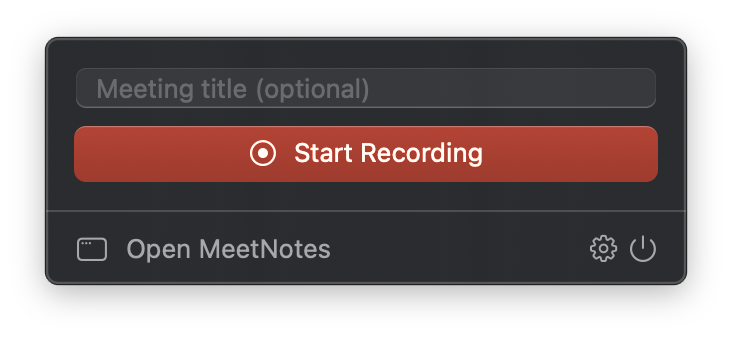
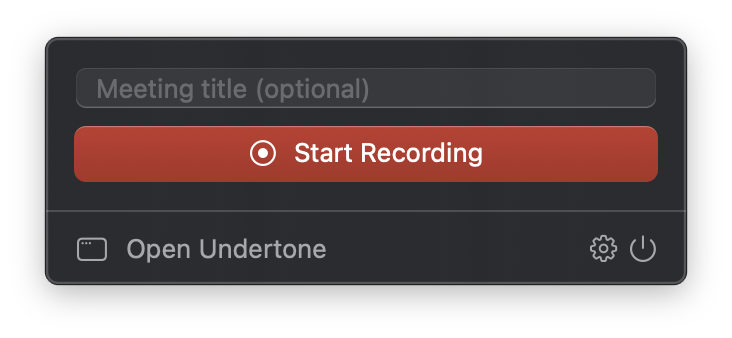
Rename the project to Undertone on the website and in the README
MeetNotes is already the name of several meeting-notes products. The app
itself takes the new name with the next release.

diff --git a/docs/index.html b/docs/index.html
@@ -3,9 +3,9 @@
 <head>
 <meta charset="utf-8">
 <meta name="viewport" content="width=device-width, initial-scale=1">
-<title>MeetNotes: free, private meeting transcription for Mac</title>
+<title>Undertone: free, private meeting transcription for Mac</title>
 <meta name="description" content="Record your calls and get a transcript of who said what, made on your Mac. No bot joins the call, no audio leaves your Mac. Free and open source.">
-<meta property="og:title" content="MeetNotes: free, private meeting transcription for Mac">
+<meta property="og:title" content="Undertone: free, private meeting transcription for Mac">
 <meta property="og:description" content="No bot joins your call, no audio leaves your Mac. Free and open source.">
 <meta property="og:image" content="https://paulshnurenko.github.io/free-meeting-transcription/screenshot-transcript.png">
 <meta property="og:url" content="https://paulshnurenko.github.io/free-meeting-transcription/">
@@ -182,7 +182,7 @@
 
 <nav>
   <div class="wrap">
-    <a class="logo" href="#"><img src="icon.png" alt="">MeetNotes</a>
+    <a class="logo" href="#"><img src="icon.png" alt="">Undertone</a>
     <div class="links">
       <a href="#how">How it works</a>
       <a href="#features">Features</a>
@@ -198,7 +198,7 @@
   <div class="wrap">
     <span class="badge"><span class="dot"></span>Free and open source</span>
     <h1>Meeting notes that <span>never leave your Mac</span></h1>
-    <p class="lead">MeetNotes records your calls and turns them into a transcript of who said what. No bot joins the call, no account, no subscription. Everything runs on your Mac.</p>
+    <p class="lead">Undertone records your calls and turns them into a transcript of who said what. No bot joins the call, no account, no subscription. Everything runs on your Mac.</p>
     <div class="cta">
       <a class="btn btn-primary download" href="https://github.com/paulshnurenko/free-meeting-transcription/releases/latest">
         <svg width="18" height="18" viewBox="0 0 24 24" fill="none" stroke="currentColor" stroke-width="2.4" stroke-linecap="round" stroke-linejoin="round"><path d="M12 3v13M6 11l6 6 6-6M4 21h16"/></svg>
@@ -211,7 +211,7 @@
     </div>
     <p class="req">macOS 15 or later · Apple Silicon (M1 or newer) · Signed and notarized by Apple</p>
     <div class="shot">
-      <img src="screenshot-transcript.png" width="2360" height="1520" alt="A meeting transcript in MeetNotes, with each line labeled by speaker and time">
+      <img src="screenshot-transcript.png" width="2360" height="1520" alt="A meeting transcript in Undertone, with each line labeled by speaker and time">
     </div>
   </div>
 </header>
@@ -247,7 +247,7 @@
         <span class="num">1</span>
         <h3>Start recording</h3>
         <p>One click in the menu bar, or in the reminder you get when a calendar meeting starts.</p>
-        <div class="step-visual"><img src="screenshot-menu-bar.png" width="366" alt="The MeetNotes menu bar panel with a Start Recording button"></div>
+        <div class="step-visual"><img src="screenshot-menu-bar.png" width="366" alt="The Undertone menu bar panel with a Start Recording button"></div>
       </div>
       <div class="step">
         <span class="num">2</span>
@@ -279,7 +279,7 @@
     <div class="features">
       <div class="feature"><h3>25 languages</h3><p>English, Ukrainian, Polish, German, French, Spanish and other European languages, detected automatically. Powered by NVIDIA Parakeet.</p></div>
       <div class="feature"><h3>Tells speakers apart</h3><p>Several people on the call get their own labels (Speaker 1, Speaker 2…). Rename them in one click, with suggestions from the calendar invite.</p></div>
-      <div class="feature"><h3>No headphones needed</h3><p>When your mic picks up the call from your speakers, MeetNotes removes that echo, so lines aren't duplicated.</p></div>
+      <div class="feature"><h3>No headphones needed</h3><p>When your mic picks up the call from your speakers, Undertone removes that echo, so lines aren't duplicated.</p></div>
       <div class="feature"><h3>Calendar aware</h3><p>Shows your meetings from the macOS Calendar (Google, iCloud, Exchange, Outlook) and reminds you to record when one starts.</p></div>
       <div class="feature"><h3>Plain files you own</h3><p>Each meeting is a folder with the audio, <code>transcript.md</code> and <code>transcript.json</code>. Drop it into your notes app or an AI assistant.</p></div>
       <div class="feature"><h3>Never records the screen</h3><p>It only asks for the microphone and "System Audio Recording Only". English and Ukrainian interface, automatic updates.</p></div>
@@ -292,13 +292,13 @@
     <div class="privacy">
       <div>
         <h2>Private by design, not by promise</h2>
-        <p>There is no MeetNotes server. Recording, echo removal, speaker separation and speech recognition all happen on your Mac.</p>
+        <p>There is no Undertone server. Recording, echo removal, speaker separation and speech recognition all happen on your Mac.</p>
         <ul>
           <li>No account and no sign-in</li>
           <li>Audio and transcripts stay in <code style="background: rgba(255,255,255,.12); border-color: rgba(255,255,255,.2); color: #fff">~/MeetingNotes</code></li>
           <li>The only downloads: the speech model, once, and app updates</li>
           <li>Open source, so you can check every line</li>
-          <li>Google account optional (next update): read-only calendar, and only the Docs MeetNotes creates</li>
+          <li>Google account optional (next update): read-only calendar, and only the Docs Undertone creates</li>
         </ul>
       </div>
       <img src="screenshot-settings.png" width="1160" height="900" alt="Transcription settings: the on-device Parakeet model, 25 languages, audio never leaves your Mac">
@@ -311,8 +311,8 @@
     <div>
       <h2>Install in a minute</h2>
       <ol style="margin-top: 28px">
-        <li><a class="download" href="https://github.com/paulshnurenko/free-meeting-transcription/releases/latest">Download the DMG</a> and drag MeetNotes to Applications.</li>
-        <li>Click the MeetNotes icon in the menu bar and start a recording.</li>
+        <li><a class="download" href="https://github.com/paulshnurenko/free-meeting-transcription/releases/latest">Download the DMG</a> and drag Undertone to Applications.</li>
+        <li>Click the Undertone icon in the menu bar and start a recording.</li>
         <li>Allow <b>Microphone</b> and <b>System Audio Recording Only</b> when macOS asks.</li>
         <li>The first transcription downloads the speech model (about 500 MB, once).</li>
       </ol>
@@ -335,7 +335,7 @@
     <div class="faq">
       <details>
         <summary>Why is it free?</summary>
-        <p>I built MeetNotes to solve my own problem: I couldn't find a decent free app that transcribes meetings without a bot or a cloud. It's a side project, so sharing it costs me nothing. There are no paid plans and no catch.</p>
+        <p>I built Undertone to solve my own problem: I couldn't find a decent free app that transcribes meetings without a bot or a cloud. It's a side project, so sharing it costs me nothing. There are no paid plans and no catch.</p>
       </details>
       <details>
         <summary>Does it work on Intel Macs?</summary>
@@ -343,15 +343,15 @@
       </details>
       <details>
         <summary>Which call apps does it work with?</summary>
-        <p>Any of them: Zoom, Google Meet in the browser, Microsoft Teams, Slack huddles, FaceTime, Discord. MeetNotes records what your Mac plays, not a specific app.</p>
+        <p>Any of them: Zoom, Google Meet in the browser, Microsoft Teams, Slack huddles, FaceTime, Discord. Undertone records what your Mac plays, not a specific app.</p>
       </details>
       <details>
         <summary>Can I see the transcript while the meeting is going?</summary>
         <p>Not yet. The transcript is made right after you stop recording, which takes about a minute for an hour-long meeting.</p>
       </details>
       <details>
-        <summary>Does MeetNotes use my Google account?</summary>
-        <p>Only if you connect it in Settings → Google, which arrives in the next update. MeetNotes then reads your Google Calendar (read only) to show upcoming meetings with their attendees and Meet links, and, when you choose Save to Google Docs, creates a Google Doc with the transcript. It can only see the documents it created, never the rest of your Drive. Everything goes straight between your Mac and Google; nothing is sent to the developer. Details are in the <a href="privacy.html">privacy policy</a>.</p>
+        <summary>Does Undertone use my Google account?</summary>
+        <p>Only if you connect it in Settings → Google, which arrives in the next update. Undertone then reads your Google Calendar (read only) to show upcoming meetings with their attendees and Meet links, and, when you choose Save to Google Docs, creates a Google Doc with the transcript. It can only see the documents it created, never the rest of your Drive. Everything goes straight between your Mac and Google; nothing is sent to the developer. Details are in the <a href="privacy.html">privacy policy</a>.</p>
       </details>
       <details>
         <summary>Where are my recordings?</summary>
@@ -382,7 +382,7 @@
 
 <footer>
   <div class="wrap">
-    <span>MIT License © 2026 Pavlo Shnurenko. Screenshots show made-up demo meetings.</span>
+    <span>MIT License © 2026 Pavlo Shnurenko. Screenshots show made-up demo meetings. Undertone was called MeetNotes until November 2026.</span>
     <nav>
       <a href="https://github.com/paulshnurenko/free-meeting-transcription">GitHub</a>
       <a href="https://github.com/paulshnurenko/free-meeting-transcription/releases">Releases</a>

diff --git a/docs/privacy.html b/docs/privacy.html
@@ -3,8 +3,8 @@
 <head>
 <meta charset="utf-8">
 <meta name="viewport" content="width=device-width, initial-scale=1">
-<title>MeetNotes Privacy Policy</title>
-<meta name="description" content="How MeetNotes handles recordings, transcripts and Google account data.">
+<title>Undertone Privacy Policy</title>
+<meta name="description" content="How Undertone handles recordings, transcripts and Google account data.">
 <link rel="icon" href="icon.png">
 <style>
   :root { --bg: #ffffff; --text: #15162b; --muted: #5d5f78; --line: #e4e4ef; --brand: #4b47d6; }
@@ -26,11 +26,11 @@
 </head>
 <body>
 <main>
-  <a class="logo" href="./"><img src="icon.png" alt="">MeetNotes</a>
+  <a class="logo" href="./"><img src="icon.png" alt="">Undertone</a>
   <h1>Privacy Policy</h1>
   <p class="muted">Last updated November 3, 2026</p>
 
-  <p>MeetNotes is a free, open-source macOS app that records meetings and transcribes them on your Mac.
+  <p>Undertone (called MeetNotes until November 2026) is a free, open-source macOS app that records meetings and transcribes them on your Mac.
   It has no server and no account of its own. This page explains what the app does with your data.</p>
 
   <h2>Recordings and transcripts</h2>
@@ -41,25 +41,25 @@
   </ul>
 
   <h2>Google account</h2>
-  <p>Connecting a Google account is optional. If you connect it, MeetNotes asks Google for these permissions, each only when you first use the feature:</p>
+  <p>Connecting a Google account is optional. If you connect it, Undertone asks Google for these permissions, each only when you first use the feature:</p>
   <ul>
     <li><b>Google Calendar, read only</b> (<code>calendar.calendarlist.readonly</code>, <code>calendar.events.readonly</code>):
       to show your upcoming meetings with their title, time, attendees and meeting link, so you can record them in one click and label the transcript.
-      MeetNotes never changes your calendar.</li>
+      Undertone never changes your calendar.</li>
     <li><b>Google Drive, files created by the app</b> (<code>drive.file</code>):
-      to save a transcript as a new Google Doc when you choose Save to Google Docs. MeetNotes cannot see any other files in your Drive.</li>
+      to save a transcript as a new Google Doc when you choose Save to Google Docs. Undertone cannot see any other files in your Drive.</li>
     <li><b>Your email address</b> (<code>email</code>): to show which account is connected.</li>
   </ul>
   <p>Calendar data is fetched straight from Google to your Mac and kept only in the app's memory, apart from the title and attendee names of a meeting you record, which are saved with that recording.
   The sign-in token is stored in your Mac's Keychain. Nothing is sent to the developer or to any third party.</p>
-  <p>MeetNotes' use and transfer of information received from Google APIs adheres to the
+  <p>Undertone' use and transfer of information received from Google APIs adheres to the
   <a href="https://developers.google.com/terms/api-services-user-data-policy">Google API Services User Data Policy</a>, including the Limited Use requirements.
   Google user data is not used for advertising, is not sold, and is not used to train AI or machine-learning models.</p>
-  <p>You can disconnect the account in MeetNotes → Settings → Google, which revokes the app's access, or remove MeetNotes at
+  <p>You can disconnect the account in Undertone → Settings → Google, which revokes the app's access, or remove Undertone at
   <a href="https://myaccount.google.com/connections">myaccount.google.com/connections</a>.</p>
 
   <h2>Network access</h2>
-  <p>Apart from Google, if you connect it, MeetNotes downloads the speech recognition model once from Hugging Face and checks this project's GitHub releases for updates. Neither request contains your recordings or transcripts.</p>
+  <p>Apart from Google, if you connect it, Undertone downloads the speech recognition model once from Hugging Face and checks this project's GitHub releases for updates. Neither request contains your recordings or transcripts.</p>
 
   <h2>Recording other people</h2>
   <p>Recording others may require their consent where you live. Please let participants know when you record.</p>
@@ -68,7 +68,7 @@
   <p>Questions about privacy: <a href="https://github.com/paulshnurenko/free-meeting-transcription/issues">open an issue on GitHub</a>
   or report it privately through <a href="https://github.com/paulshnurenko/free-meeting-transcription/security/advisories/new">a security advisory</a>.</p>
 
-  <footer>MIT License © 2026 Pavlo Shnurenko · <a href="./">MeetNotes</a></footer>
+  <footer>MIT License © 2026 Pavlo Shnurenko · <a href="./">Undertone</a></footer>
 </main>
 </body>
 </html>

diff --git a/README.md b/README.md
@@ -1,6 +1,6 @@
-<p align="center"><img src="Resources/AppIcon-preview.png" width="128" alt="MeetNotes icon"></p>
+<p align="center"><img src="Resources/AppIcon-preview.png" width="128" alt="Undertone icon"></p>
 
-<h1 align="center">MeetNotes</h1>
+<h1 align="center">Undertone</h1>
 
 <p align="center">Free, private meeting transcription for macOS.<br>
 No bot joins your call, no audio leaves your Mac.</p>
@@ -8,9 +8,11 @@ No bot joins your call, no audio leaves your Mac.</p>
 <p align="center"><a href="https://paulshnurenko.github.io/free-meeting-transcription/">Website</a> ·
 <a href="https://github.com/paulshnurenko/free-meeting-transcription/releases/latest">Download</a></p>
 
+<p align="center"><sub>Called MeetNotes until November 2026. Version 1.0 still shows the old name; the next update brings the new one.</sub></p>
+
 ---
 
-MeetNotes records your side (the microphone) and everyone else (the call audio from Zoom, Google Meet,
+Undertone records your side (the microphone) and everyone else (the call audio from Zoom, Google Meet,
 Teams, Slack or anything else) as two separate tracks, then transcribes them on your Mac with
 NVIDIA's Parakeet model running on the Neural Engine. You get a timestamped transcript with who said what,
 saved as plain files you own.
@@ -19,13 +21,13 @@ It is a free, open-source alternative to cloud meeting assistants such as Notion
 Fireflies, except that everything runs locally: no account, no server, no subscription, and recordings
 and transcripts never leave your Mac.
 
-<p align="center"><img src="docs/screenshot-transcript.png" width="900" alt="A meeting transcript in MeetNotes, with each line labeled by speaker and time"></p>
+<p align="center"><img src="docs/screenshot-transcript.png" width="900" alt="A meeting transcript in Undertone, with each line labeled by speaker and time"></p>
 
 Start and stop recording from the menu bar. When you stop, the transcript is made right away, with no
 button to press.
 
 <p align="center">
-  <img src="docs/screenshot-menu-bar.png" width="360" alt="The MeetNotes menu bar panel with a Start Recording button">
+  <img src="docs/screenshot-menu-bar.png" width="360" alt="The Undertone menu bar panel with a Start Recording button">
   &nbsp;
   <img src="docs/screenshot-settings.png" width="460" alt="Transcription settings: speaker separation and the on-device Parakeet model">
 </p>
@@ -41,7 +43,7 @@ button to press.
 - **Tells speakers apart.** Several people on the call get their own labels (Speaker 1, Speaker 2…),
   which you can rename to real names in one click, with suggestions from the calendar invite.
 - **No headphones needed.** When your microphone picks up the other people from your speakers,
-  MeetNotes removes that echo from your track, so lines are not duplicated.
+  Undertone removes that echo from your track, so lines are not duplicated.
 - **Scheduled meetings** from the macOS Calendar (Google, iCloud, Exchange, Outlook): record in one
   click with the event's title and attendees, and get a notification with a Record button when a
   meeting starts.
@@ -54,9 +56,9 @@ button to press.
 
 ## Install
 
-1. Download the latest `MeetNotes-<version>.dmg` from
+1. Download the latest `Undertone-<version>.dmg` from
    [Releases](https://github.com/paulshnurenko/free-meeting-transcription/releases/latest).
-2. Open it and drag MeetNotes to Applications.
+2. Open it and drag Undertone to Applications.
 3. Start a recording from the menu bar. macOS asks for the **Microphone** and
    **System Audio Recording Only** permissions the first time.
 4. The first transcription downloads the speech model (about 500 MB, once).
@@ -65,13 +67,13 @@ Requires macOS 15 or later on Apple Silicon. The app is signed and notarized by 
 
 ### Google Calendar
 
-MeetNotes reads meetings from the macOS Calendar, so it needs no access to your Google account. Add the
+Undertone reads meetings from the macOS Calendar, so it needs no access to your Google account. Add the
 account in **System Settings → Internet Accounts → Google**, turn on **Calendars**, then click
-**Connect Calendar…** in MeetNotes. In Settings you can choose which calendars to show.
+**Connect Calendar…** in Undertone. In Settings you can choose which calendars to show.
 
 ## Privacy
 
-Recording, echo removal and speech recognition all run on your Mac. MeetNotes sends nothing anywhere.
+Recording, echo removal and speech recognition all run on your Mac. Undertone sends nothing anywhere.
 The only network requests are the one-time model download from Hugging Face and update checks against
 this repository's releases.
 
@@ -79,7 +81,7 @@ Recording other people may require their consent where you live. Let participant
 
 ## How it works
 
-MeetNotes is a single native Swift app with no server side. Recording happens in real time; everything
+Undertone is a single native Swift app with no server side. Recording happens in real time; everything
 else runs once the recording stops, as a pipeline over the two audio files.
 
 ```mermaid
@@ -105,7 +107,7 @@ flowchart LR
    Core Audio process tap ("System Audio Recording Only" permission, no screen capture).
    Both tracks are placed on one host clock and written as 16 kHz mono WAV, so they stay aligned however
    long the meeting is. A level meter on the call track drives the automatic stop.
-2. **Echo removal.** Without headphones the mic also hears the speakers. MeetNotes finds the delay and
+2. **Echo removal.** Without headphones the mic also hears the speakers. Undertone finds the delay and
    loudness at which the call track shows up in the mic track, predicts that echo frame by frame and mutes
    the mic where it holds nothing louder than the echo. Your own voice is louder, so it stays, even when
    you talk over someone.
@@ -163,8 +165,8 @@ The folder can be changed in Settings.
 You need Xcode 26 or later (with its license accepted) on an Apple Silicon Mac.
 
 ```bash
-scripts/build-app.sh        # → build/MeetNotes.app
-open build/MeetNotes.app
+scripts/build-app.sh        # → build/Undertone.app
+open build/Undertone.app
 ```
 
 The build is signed with your Developer ID certificate if you have one, otherwise ad-hoc (then macOS asks
@@ -178,7 +180,7 @@ swift run meetnotes-cli process ~/MeetingNotes/<meeting folder>
 
 ### Releasing
 
-`scripts/release.sh <version>` builds, signs, notarizes and packages `dist/MeetNotes-<version>.dmg` and
+`scripts/release.sh <version>` builds, signs, notarizes and packages `dist/Undertone-<version>.dmg` and
 `dist/appcast.xml`. Publish both as assets of a GitHub release tagged `v<version>`, not marked as a
 pre-release: the app checks the appcast of the latest release. The script header lists the one-time setup.
 

diff --git a/SECURITY.md b/SECURITY.md
@@ -9,7 +9,7 @@ a first reply within a week.
 
 ## Supported versions
 
-Only the latest release gets fixes. MeetNotes updates itself, so most people run it.
+Only the latest release gets fixes. Undertone updates itself, so most people run it.
 
 ## How releases are protected
 
@@ -17,5 +17,5 @@ Only the latest release gets fixes. MeetNotes updates itself, so most people run
 - Updates are delivered by [Sparkle](https://sparkle-project.org), which installs an update only if it is
   signed with the project's EdDSA key. The key is not stored on GitHub, so a tampered release cannot
   update installed copies.
-- MeetNotes sends no audio or transcripts anywhere. Its only network requests are the one-time model
+- Undertone sends no audio or transcripts anywhere. Its only network requests are the one-time model
   download from Hugging Face and the update check against this repository's latest release.
